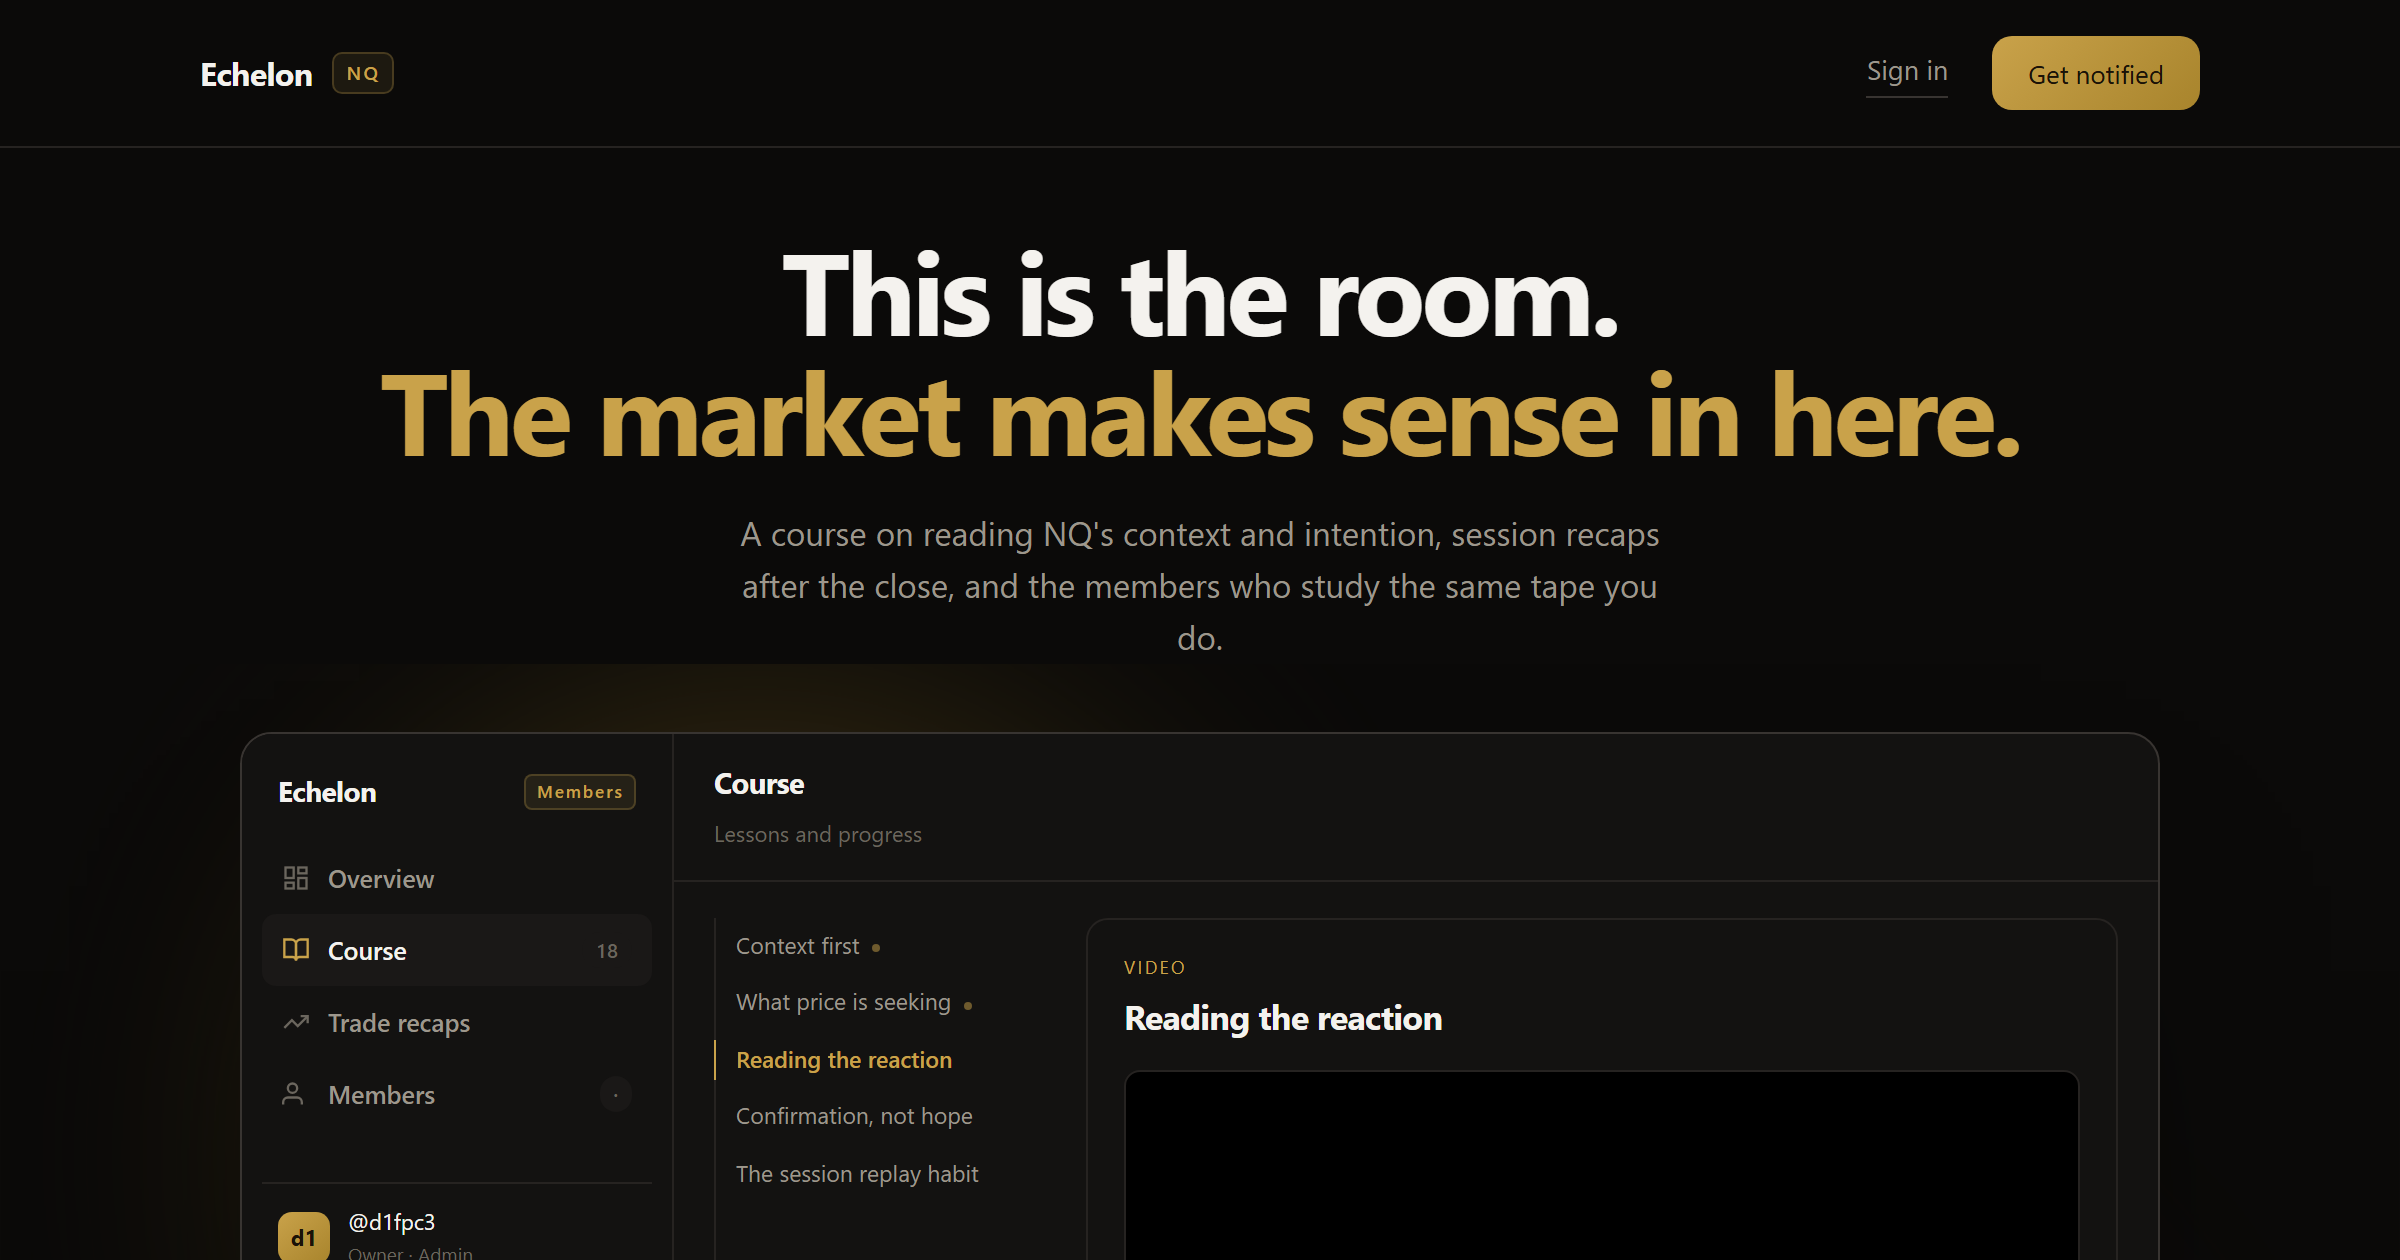
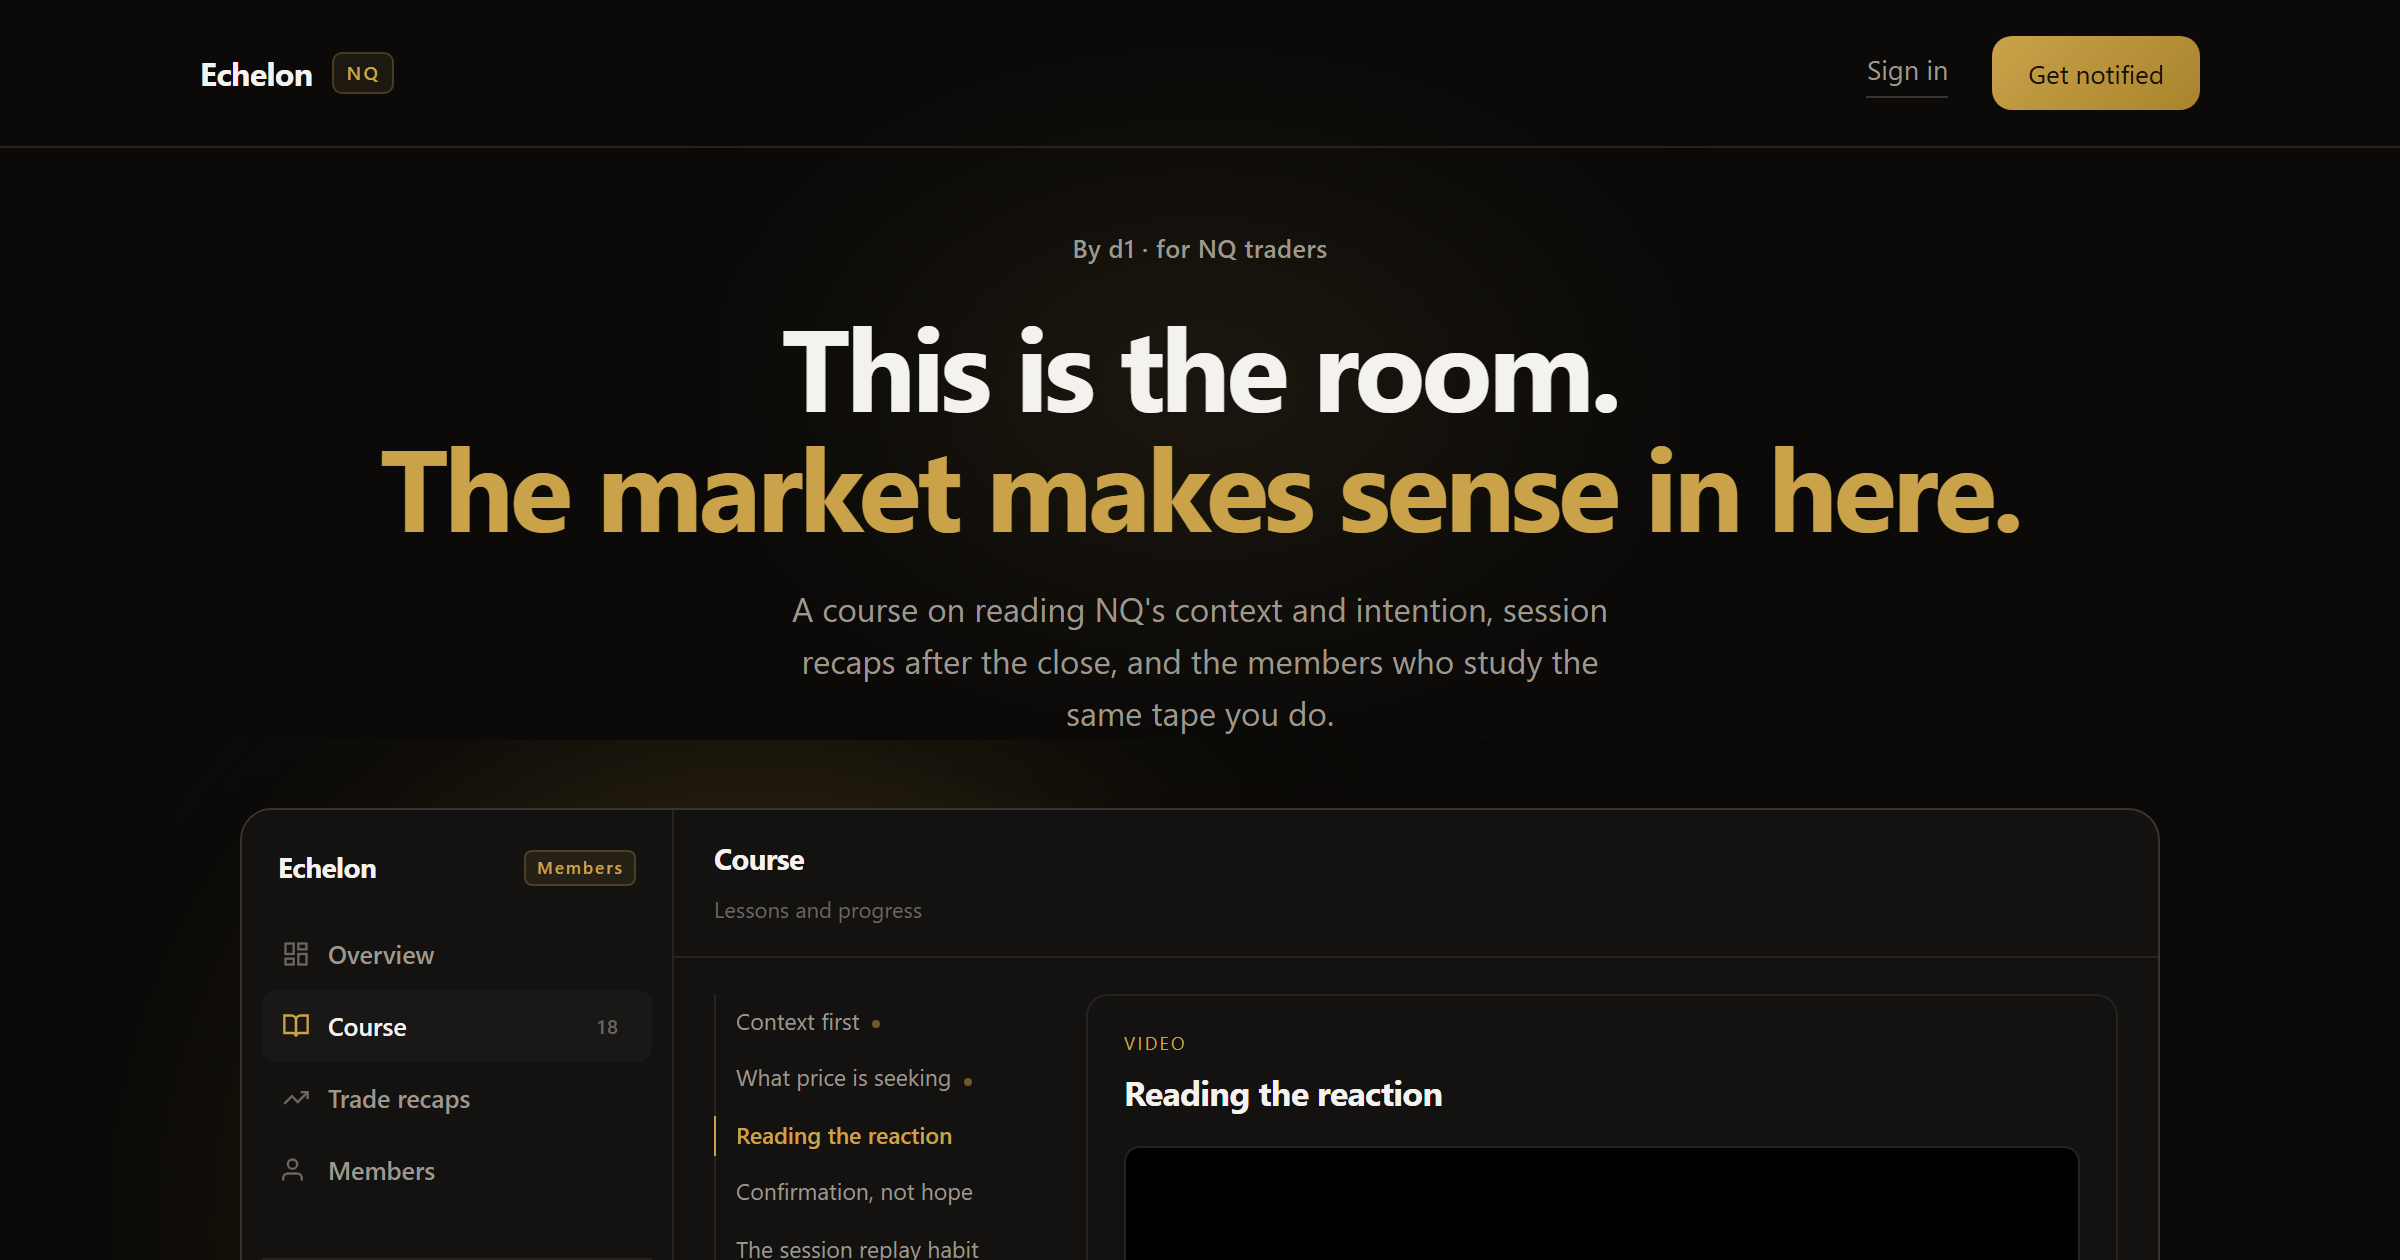
Landing refinement pass: hero composition and typographic rag
- Quiet byline above the headline (lowercase d1, no label transform)
- Faint gold ambience behind the hero, width-capped so phones don't
  gain horizontal scroll (same trap the stage orbs hit)
- text-wrap balance/pretty across headings and paragraphs; sub measure
  tightened to kill the orphan
- Hero CTA says what it does: "Get notified when doors open"
- Replica caption reworded; empty Members chip hides until the live
  count arrives; dark color-scheme; button active state
- og.png re-rendered to match

diff --git a/index.html b/index.html
@@ -7,6 +7,7 @@
   <link rel="icon" type="image/svg+xml" href="/favicon.svg">
   <meta name="description" content="Echelon teaches the concepts behind NQ price movement: how to read context, recognize intention, and understand what the market is communicating.">
   <meta name="theme-color" content="#0b0a09">
+  <meta name="color-scheme" content="dark">
   <link rel="canonical" href="https://d1fpc3.com/">
   <meta property="og:type" content="website">
   <meta property="og:site_name" content="Echelon by d1">
@@ -48,6 +49,7 @@
     [hidden] { display: none !important; }
 
     :root {
+      color-scheme: dark;
       --bg: #0b0a09; --panel: #131211; --panel-2: #1a1817;
       --ink: #f4f2ee; --muted: #9d978c; --faint: #6b665e;
       --line: #262321; --line-bright: #383431;
@@ -69,6 +71,9 @@
 
     .col { max-width: 1080px; margin: 0 auto; padding: 0 clamp(20px, 4vw, 40px); }
     .label { font-size: 10.5px; letter-spacing: 0.13em; text-transform: uppercase; color: var(--faint); }
+    h3, h4 { text-wrap: balance; }
+    p { text-wrap: pretty; }
+    #access { scroll-margin-top: 24px; }
 
     .btn {
       display: inline-flex; align-items: center; gap: 8px;
@@ -78,6 +83,7 @@
       transition: filter 0.18s ease, transform 0.15s ease;
     }
     .btn:hover { filter: brightness(1.07); transform: translateY(-1px); }
+    .btn:active { filter: brightness(0.98); transform: translateY(0); }
     .btn[aria-disabled="true"] { filter: saturate(0.4) brightness(0.8); cursor: not-allowed; transform: none; }
     .quiet { color: var(--muted); font-size: 13.5px; border-bottom: 1px solid var(--line-bright); padding-bottom: 2px; }
     .quiet:hover { color: var(--gold); border-color: var(--gold); }
@@ -103,10 +109,19 @@
     @media (max-width: 560px) { .top .btn { display: none; } }
 
     /* hero: one sentence, then the product */
-    .hero { text-align: center; padding: clamp(52px, 9vh, 96px) 0 0; position: relative; }
-    .hero h1 { font-size: clamp(34px, 6vw, 58px); font-weight: 700; letter-spacing: -0.035em; line-height: 1.04; }
+    .hero { text-align: center; padding: clamp(48px, 8vh, 88px) 0 0; position: relative; }
+    /* the same warmth the gate orbs give the replica, up here, barely */
+    .hero::before {
+      content: ""; position: absolute; z-index: -1; left: 50%; top: -80px;
+      width: min(720px, 100vw); height: 400px; transform: translateX(-50%);
+      background: radial-gradient(closest-side, rgba(201,162,74,0.13), transparent 70%);
+      filter: blur(60px); pointer-events: none;
+    }
+    /* byline, not a label: "d1" stays lowercase in copy, so no uppercase here */
+    .hero .kick { margin-bottom: 18px; font-size: 12.5px; font-weight: 500; letter-spacing: 0.02em; color: var(--muted); }
+    .hero h1 { font-size: clamp(34px, 6vw, 58px); font-weight: 700; letter-spacing: -0.035em; line-height: 1.04; text-wrap: balance; }
     .hero h1 em { font-style: normal; color: var(--gold); }
-    .hero .sub { margin: 18px auto 0; max-width: 52ch; color: var(--muted); font-size: clamp(14.5px, 1.4vw, 16.5px); }
+    .hero .sub { margin: 18px auto 0; max-width: 46ch; color: var(--muted); font-size: clamp(14.5px, 1.4vw, 16.5px); text-wrap: pretty; }
     .hero .act { margin-top: 28px; display: flex; align-items: center; justify-content: center; gap: 22px; flex-wrap: wrap; }
     .hero .fine { margin-top: 16px; font-size: 12.5px; color: var(--faint); }
 
@@ -134,6 +149,7 @@
     .demo .d-tab .ic { width: 14px; height: 14px; color: var(--faint); flex-shrink: 0; }
     .demo .d-tab.on .ic { color: var(--gold); }
     .demo .d-tab .ct { margin-left: auto; font-size: 10px; color: var(--faint); background: var(--panel-2); border-radius: 20px; padding: 1px 7px; font-variant-numeric: tabular-nums; }
+    .demo .d-tab .ct:empty { display: none; }
     .demo .d-user { margin-top: 26px; border-top: 1px solid var(--line); padding: 10px 8px 0; display: flex; gap: 9px; align-items: center; }
     .demo .d-ava { width: 26px; height: 26px; border-radius: 7px; background: linear-gradient(140deg, var(--gold), var(--gold-deep)); color: #1a1207; font-weight: 700; font-size: 11px; display: flex; align-items: center; justify-content: center; }
     .demo .d-user div { font-size: 11px; }
@@ -313,6 +329,7 @@
 
   <main>
     <div class="hero"><div class="col">
+      <p class="kick">By d1 · for NQ traders</p>
       <h1>This is the room.<br><em>The market makes sense in here.</em></h1>
       <p class="sub">A course on reading NQ's context and intention, session recaps after the close, and the members who study the same tape you do.</p>
       <div class="act">
@@ -332,7 +349,7 @@
           <div class="d-tab"><svg class="ic" viewBox="0 0 24 24" fill="none" stroke="currentColor" stroke-width="2"><rect x="3" y="3" width="7" height="9"/><rect x="14" y="3" width="7" height="5"/><rect x="14" y="12" width="7" height="9"/><rect x="3" y="16" width="7" height="5"/></svg>Overview</div>
           <div class="d-tab on"><svg class="ic" viewBox="0 0 24 24" fill="none" stroke="currentColor" stroke-width="2"><path d="M2 3h6a4 4 0 0 1 4 4v14a3 3 0 0 0-3-3H2z"/><path d="M22 3h-6a4 4 0 0 0-4 4v14a3 3 0 0 1 3-3h7z"/></svg>Course <span class="ct" data-lessons>18</span></div>
           <div class="d-tab"><svg class="ic" viewBox="0 0 24 24" fill="none" stroke="currentColor" stroke-width="2"><polyline points="22 7 13.5 15.5 8.5 10.5 2 17"/><polyline points="16 7 22 7 22 13"/></svg>Trade recaps</div>
-          <div class="d-tab"><svg class="ic" viewBox="0 0 24 24" fill="none" stroke="currentColor" stroke-width="2"><path d="M17 21v-2a4 4 0 0 0-4-4H5a4 4 0 0 0-4 4v2"/><circle cx="9" cy="7" r="4"/></svg>Members <span class="ct" data-echelon-count data-raw>·</span></div>
+          <div class="d-tab"><svg class="ic" viewBox="0 0 24 24" fill="none" stroke="currentColor" stroke-width="2"><path d="M17 21v-2a4 4 0 0 0-4-4H5a4 4 0 0 0-4 4v2"/><circle cx="9" cy="7" r="4"/></svg>Members <span class="ct" data-echelon-count data-raw></span></div>
           <div class="d-user"><span class="d-ava">d1</span><div>@d1fpc3<div class="r">Owner · Admin</div></div></div>
         </div>
         <div class="d-main">
@@ -354,7 +371,7 @@
           </div>
         </div>
       </div>
-      <p class="cap">Not a mockup style, <b>the actual members area</b>. This is what you're buying.</p>
+      <p class="cap">Drawn to the pixel from <b>the actual members area</b>. This is what you're buying.</p>
     </div></div>
 
     <div class="inside"><div class="col">
@@ -467,7 +484,7 @@
       } else if (btn.closest('.glass')) {
         btn.hidden = true;
       } else {
-        btn.textContent = btn.closest('.hero') ? 'Doors open soon · get notified' : 'Get notified';
+        btn.textContent = btn.closest('.hero') ? 'Get notified when doors open' : 'Get notified';
         btn.addEventListener('click', function () {
           document.getElementById('access').scrollIntoView({ behavior: 'smooth' });
           setTimeout(function () {
